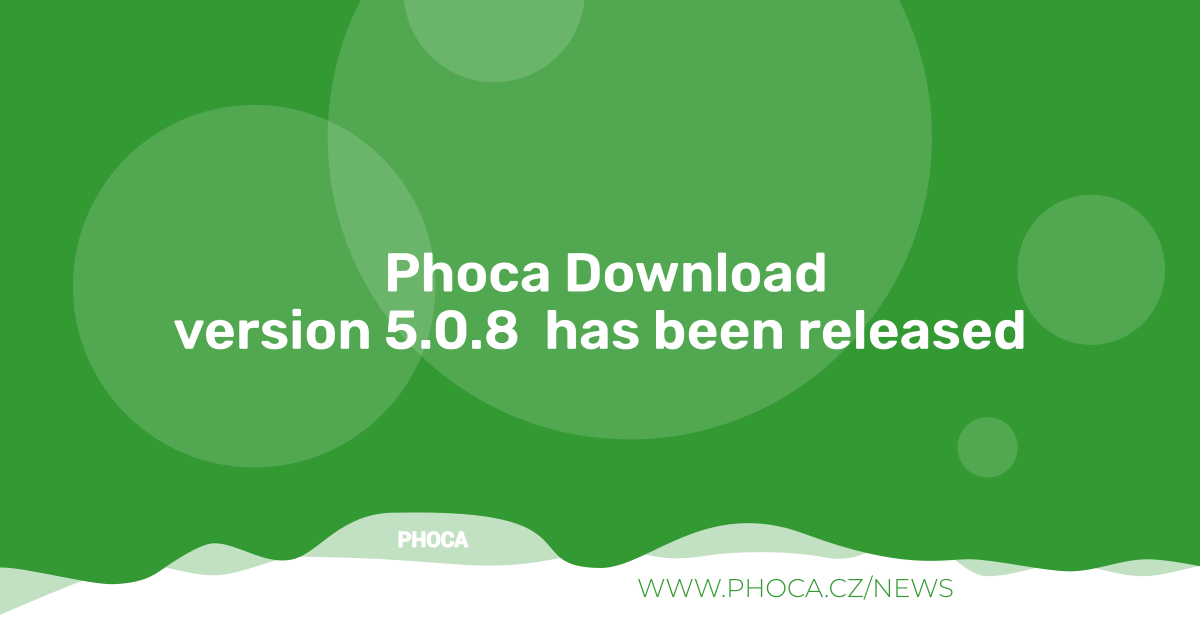
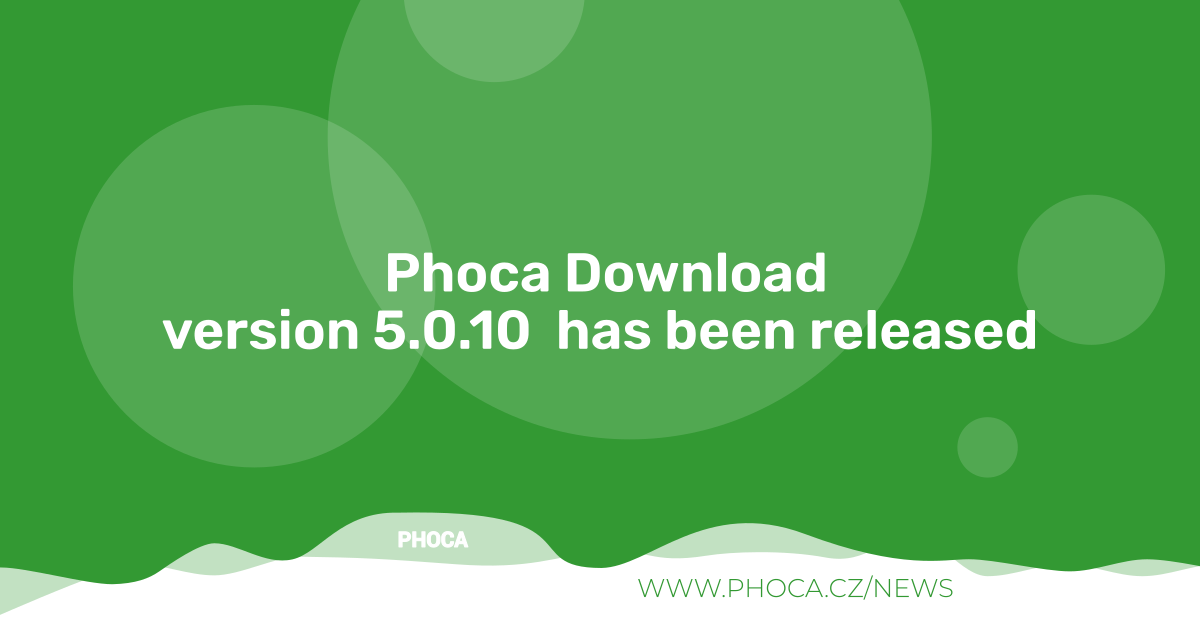
5.0.10

Changed region(s): [[0.1233, 0.4825, 0.8633, 0.573]]

diff --git a/README.MD b/README.MD
@@ -100,7 +100,7 @@ Phoca Download is download manager for Joomla! CMS. It includes component, modul
 
 ## Version (Joomla! 5.x)
 
-5.0.8
+5.0.10
 
 
 
